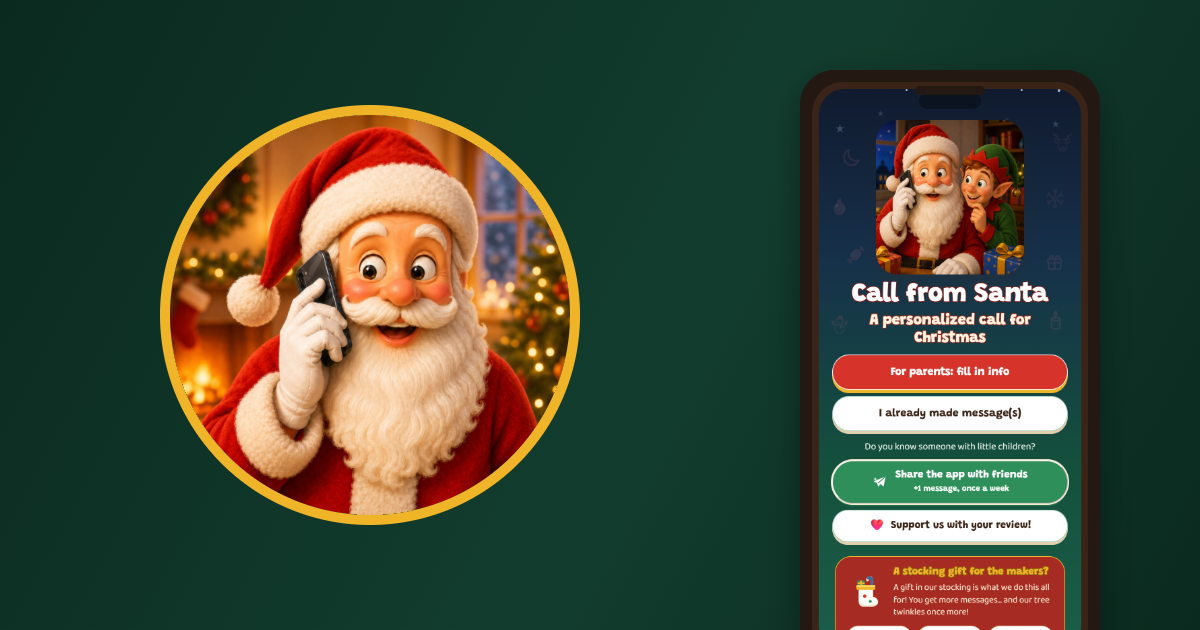
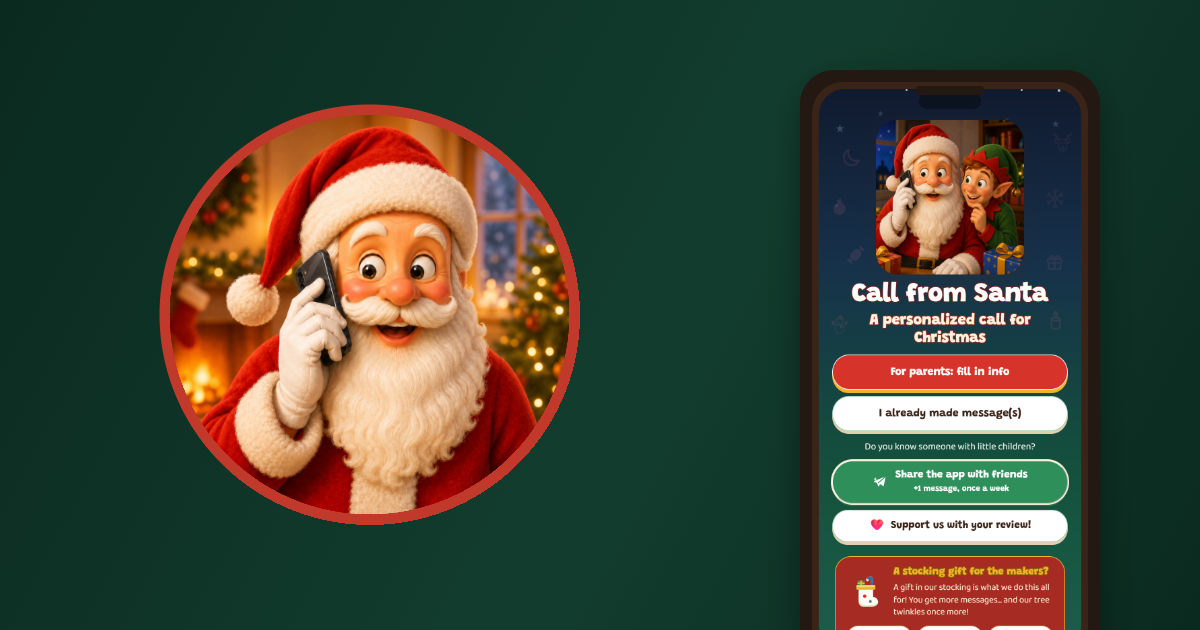
Add files via upload
Winkelknoppen zonder doorsturen

diff --git a/santa/index.html b/santa/index.html
@@ -78,19 +78,20 @@
   </div>
 </main>
 
+
 <script>
-  // Op een telefoon meteen doorsturen naar de juiste winkel: wie via een
-  // gedeelde link binnenkomt wil downloaden, niet lezen. Op een computer blijft
-  // de pagina staan, want daar kan de winkel-app niet opengaan.
   (function () {
     var ua = navigator.userAgent || "";
     var isIOS = /iPad|iPhone|iPod/.test(ua) || (/Macintosh/.test(ua) && navigator.maxTouchPoints > 1);
     var isAndroid = /Android/.test(ua);
-    if (location.hash === "#stay") return;
-    var iosLink = document.getElementById("ios").href;
-    // Zolang het app-nummer nog een plaatshouder is: pagina laten staan.
-    if (isIOS && !/id0{6,}/.test(iosLink)) location.replace(iosLink);
-    else if (isAndroid) location.replace(document.getElementById("android").href);
+    if (!isIOS && !isAndroid) return;
+    var rij = document.querySelector(".knoppen");
+    var eigen = document.getElementById(isIOS ? "ios" : "android");
+    var ander = document.getElementById(isIOS ? "android" : "ios");
+    if (!rij || !eigen || !ander) return;
+    rij.insertBefore(eigen, ander);
+    ander.style.opacity = "0.62";
+    ander.style.transform = "scale(0.94)";
   })();
 </script>
 </body>

diff --git a/sinterklaaspakjeslijn/index.html b/sinterklaaspakjeslijn/index.html
@@ -78,19 +78,20 @@
   </div>
 </main>
 
+
 <script>
-  // Op een telefoon meteen doorsturen naar de juiste winkel: wie via een
-  // gedeelde link binnenkomt wil downloaden, niet lezen. Op een computer blijft
-  // de pagina staan, want daar kan de winkel-app niet opengaan.
   (function () {
     var ua = navigator.userAgent || "";
     var isIOS = /iPad|iPhone|iPod/.test(ua) || (/Macintosh/.test(ua) && navigator.maxTouchPoints > 1);
     var isAndroid = /Android/.test(ua);
-    if (location.hash === "#stay") return;
-    var iosLink = document.getElementById("ios").href;
-    // Zolang het app-nummer nog een plaatshouder is: pagina laten staan.
-    if (isIOS && !/id0{6,}/.test(iosLink)) location.replace(iosLink);
-    else if (isAndroid) location.replace(document.getElementById("android").href);
+    if (!isIOS && !isAndroid) return;
+    var rij = document.querySelector(".knoppen");
+    var eigen = document.getElementById(isIOS ? "ios" : "android");
+    var ander = document.getElementById(isIOS ? "android" : "ios");
+    if (!rij || !eigen || !ander) return;
+    rij.insertBefore(eigen, ander);
+    ander.style.opacity = "0.62";
+    ander.style.transform = "scale(0.94)";
   })();
 </script>
 </body>
